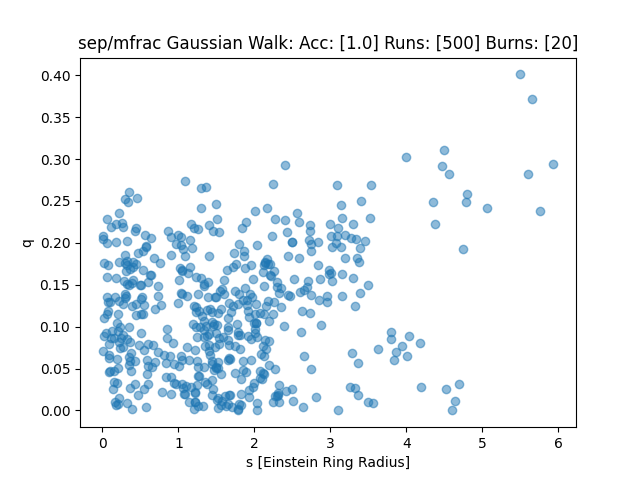
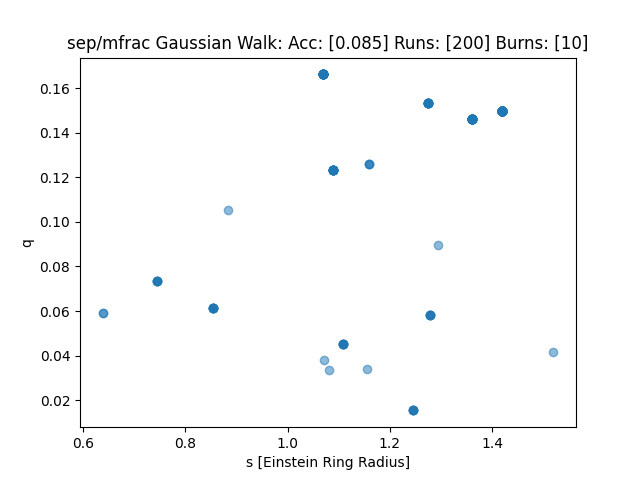
priors working

diff --git a/emcee-test.py b/emcee-test.py
@@ -1,8 +1,16 @@
+from numpy.core.numeric import Inf
 import MulensModel as mm
 import numpy as np
 import emcee
 
+import random
+
+
+from scipy.stats import truncnorm, loguniform, uniform
+
 import matplotlib.pyplot as plt
+
+random.seed(99)
 
 # Synthetic Event Parameters/Initialisation
 SBModel = mm.Model({'t_0': 2452848.06, 'u_0': 0.133, 't_E': 61.5, 'rho': 0.00096, 'q': 0.0039, 's': 1.120, 'alpha': 223.8})
@@ -16,46 +24,109 @@ SBData = mm.MulensData(data_list=[t, SBModel.magnification(t), SBModel.magnifica
 # Get likelihood by creating a new model and fitting to previously generated data
 def log_prob(p):
     t_0, u_0, t_E, q, s, alpha = p
-    if q<0:
-        q=-q
-    if u_0<0:
-        u_0=-u_0
-    if s<0:
-        s=-s
-    Model = mm.Model({'t_0': t_0+2450000, 'u_0': u_0, 't_E': t_E, 'rho': 0.00096, 'q': q, 's': s, 'alpha': alpha})
-    Model.set_magnification_methods([2452833., 'VBBL', 2452845.])
 
-    Event = mm.Event(datasets=SBData, model=Model)
+    # Transform from log units
+    #s=np.exp(s)
+    #q=np.exp(q)
+    #t_E=np.exp(t_E)
+    #return -Inf
+    z=-Inf
 
-    return np.exp(-Event.get_chi2()/2)
+    # Uniform Priors
+    if (s<0.2 or s>5):
+        return z
+        #s=abs(s)
+
+    if (q<10e-6 or q>1):
+        return z
+        #q=abs(q)
+
+    if (alpha<0 or alpha>360):
+        return z
+        #alpha=abs(alpha)
+
+    if (u_0<0 or u_0>2):
+        return z
+        #u_0=abs(u_0)
+
+    if (t_0<0 or t_0>72):
+        return z
+        #t_0=abs(t_0)
+
+    if (t_E<1 or t_E>100):
+        #print("-ve")
+        return z
+        #t_E=abs(t_E)
+
+
+
+
+    #Model = mm.Model({'t_0': t_0+2450000, 'u_0': u_0, 't_E': t_E, 'rho': 0.00096, 'q': q, 's': s, 'alpha': alpha})
+    try: #for when moves out of bounds of model valididty
+        Model = mm.Model({'t_0': t_0+2452848.06-72/2, 'u_0': u_0, 't_E': t_E, 'rho': 0.00096, 'q': q, 's': s, 'alpha': alpha})
+        Model.set_magnification_methods([2452833., 'VBBL', 2452845.]) #?
+        Event = mm.Event(datasets=SBData, model=Model)
+    except: #make more specific
+        return z
+
+    return -Event.get_chi2()/2 # takes log prob
 
 
 #EMCEE
-burn=20
-runs=50
+burn=10#50
+runs=100
 
 true=[2452848.06-2450000, 0.133, 61.5, 0.0039, 1.120, 223.8] # Not searching on rho?
 
 # Diagonal
-cov=np.multiply(1,[5, 0.1, 5, 0.001, 0.1, 4])
+cov=np.multiply(0.1,[0.72, 0.02, 1, 0.01, 0.05, 5])#0.5
+#genrange=[72, 2, 0, 1-10e-6, 4.8, 360]
+#base=[0, 0, 0, 10e-6, 0.2, 0]
+
+n=12
+
+#i = np.array(base+np.multiply(np.random.rand(n, 6), genrange))
+#i = true+np.multiply(np.random.rand(n, 6)-1,cov)
+
+s = loguniform.rvs(0.2, 5, size=n)
+q = loguniform.rvs(10e-6, 1, size=n)
+
+alpha = uniform.rvs(0, 360, size=n)
+u_0 = uniform.rvs(0, 2, size=n)
+t_0 = uniform.rvs(0, 72, size=n)
 
 
-n=10
-i = true+np.multiply(np.random.rand(n, 6)-1,cov)
 
+a, b = (np.log(1) - np.log(10**1.15)) / np.log(10**0.45), (np.log(100) - np.log(10**1.15)) / np.log(10**0.45)
+t_E = truncnorm.rvs(a, b, size=n)
+t_E = np.exp(t_E)
 
+#print(s)
+#print(alpha)
+#print(t_E)
 
+i=np.column_stack((t_0, u_0, t_E, q, s, alpha))
+#print(i)
+
+#print(r)
+
+#sampler = emcee.EnsembleSampler(n, 6, log_prob)
 sampler = emcee.EnsembleSampler(n, 6, log_prob, moves=[emcee.moves.GaussianMove(cov, mode='vector', factor=None)])
 
 
 
 state = sampler.run_mcmc(i, burn, skip_initial_state_check=True)
 sampler.reset()
-sampler.run_mcmc(state, runs, skip_initial_state_check=True);
+sampler.run_mcmc(state, runs, skip_initial_state_check=True)
+#, skip_initial_state_check=True
 
 walk=sampler.get_chain(flat=True)
-#walk=np.array(walk)
-#print(walk)
+
+walk=np.array(walk)
+#walk[:,2]=np.exp(walk[:,2])
+
+
+print(walk)
 
 acc=np.mean(sampler.acceptance_fraction)
 print(acc)
@@ -77,5 +148,5 @@ print(acc)
 plt.scatter(np.abs(walk[:,4]), np.abs(walk[:,3]), alpha=0.5)
 plt.xlabel('s [Einstein Ring Radius]') # Set the y axis label of the current axis.
 plt.ylabel('q') # Set a title.
-plt.title('sep/mfrac Gaussian Walk: Acc: ['+str(acc)+']'+' Runs: ['+str(runs*n)+']'+' Burns: ['+str(burn)+']')
-plt.savefig('sqwalk.png')
+plt.title('sep/mfrac Walk: Acc: ['+str(acc)+']'+' Runs: ['+str(runs*n)+']'+' Burns: ['+str(burn)+']')
+plt.savefig('sqwalkAFFC.png')
